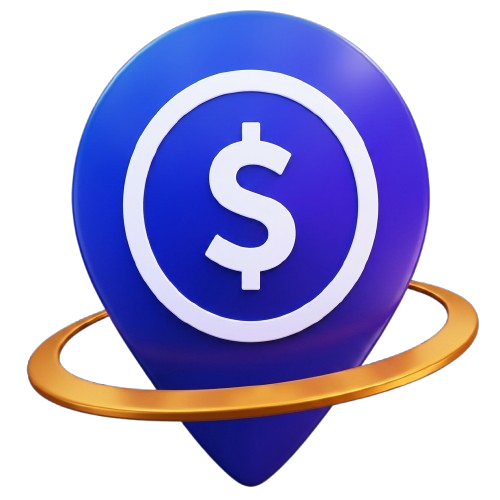
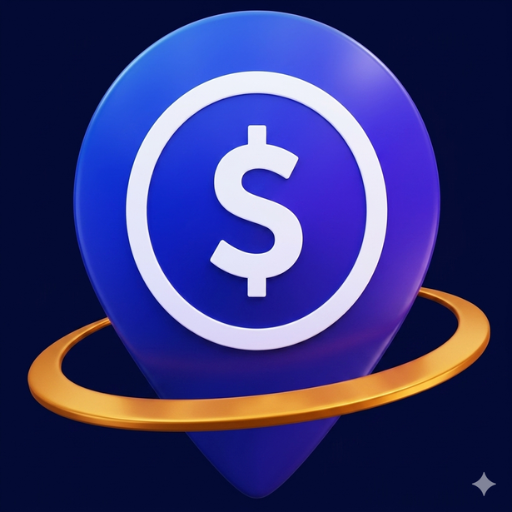
atualização dashboard

diff --git a/src/components/PWAInstallationsCard.tsx b/src/components/PWAInstallationsCard.tsx
@@ -1,0 +1,27 @@
+import React from 'react';
+import { Download } from 'lucide-react';
+import { usePWAInstallationsCount } from '../hooks/usePWAInstallationsCount';
+
+export function PWAInstallationsCard() {
+  const { data: installationsCount, isLoading, isError } = usePWAInstallationsCount();
+
+  return (
+    <div className="bg-white dark:bg-gray-800 shadow rounded-lg p-4 sm:p-6 xl:p-8">
+      <div className="flex items-center">
+        <div className="flex-shrink-0">
+          <Download className="h-6 w-6 text-gray-400" aria-hidden="true" />
+        </div>
+        <div className="ml-5 w-0 flex-1">
+          <dt className="text-sm font-medium text-gray-500 dark:text-gray-400 truncate">Instalações do App (PWA)</dt>
+          <dd className="flex items-baseline">
+            {isLoading && <p className="text-2xl font-semibold text-gray-900 dark:text-white italic text-sm">Carregando...</p>}
+            {isError && <p className="text-2xl font-semibold text-red-600 dark:text-red-400">Erro</p>}
+            {!isLoading && !isError && (
+              <p className="text-2xl font-semibold text-gray-900 dark:text-white">{installationsCount || 0}</p>
+            )}
+          </dd>
+        </div>
+      </div>
+    </div>
+  );
+}

diff --git a/src/hooks/usePWAInstallationsCount.ts b/src/hooks/usePWAInstallationsCount.ts
@@ -1,0 +1,22 @@
+import { useQuery } from '@tanstack/react-query';
+import { supabase } from "@/integrations/supabase/client";
+
+const fetchPWAInstallationsCount = async () => {
+  // @ts-ignore - ignorando erro de tipo caso a tabela ainda não tenha sido criada no Supabase
+  const { count, error } = await supabase
+    .from('app_installations')
+    .select('*', { count: 'exact', head: true });
+
+  if (error) {
+    throw new Error(error.message);
+  }
+  return count;
+};
+
+export function usePWAInstallationsCount() {
+  return useQuery({
+    queryKey: ['pwaInstallationsCount'],
+    queryFn: fetchPWAInstallationsCount,
+    staleTime: 1000 * 60 * 5, // 5 minutos de cache
+  });
+}

diff --git a/src/routes/index.tsx b/src/routes/index.tsx
@@ -1,7 +1,7 @@
 import { createFileRoute, Link } from "@tanstack/react-router";
 import { useQuery } from "@tanstack/react-query";
 import { supabase } from "@/integrations/supabase/client";
-import { MapPin, DollarSign, Wrench, Image as ImageIcon, UserCheck, User } from "lucide-react";
+import { MapPin, DollarSign, Wrench, Image as ImageIcon, UserCheck, User, Download } from "lucide-react";
 import { useEffect, useState } from "react";
 import {
   Dialog,
@@ -38,6 +38,8 @@ function AdminDashboard() {
   
   const freeUsers = useCount("profiles", { column: "is_premium", value: false });
   const paidUsers = useCount("profiles", { column: "is_premium", value: true });
+  // @ts-ignore - ignorando erro de tipo caso a tabela ainda não tenha sido criada no Supabase
+  const pwaInstalls = useCount("app_installations");
 
   useEffect(() => {
     const shouldShow = localStorage.getItem("showWelcomeDouglas");
@@ -57,6 +59,7 @@ function AdminDashboard() {
   const userCards = [
     { label: "Contas Grátis", count: freeUsers.data, icon: User, color: "bg-slate-600" },
     { label: "Assinantes", count: paidUsers.data, icon: UserCheck, color: "bg-yellow-500" },
+    { label: "Instalações PWA", count: pwaInstalls.data, icon: Download, color: "bg-indigo-500" },
   ];
 
   return (
@@ -79,8 +82,8 @@ function AdminDashboard() {
         })}
       </div>
 
-      <h2 className="text-lg font-semibold text-white mb-4">Métricas de Usuários</h2>
-      <div className="grid grid-cols-1 md:grid-cols-2 gap-4">
+      <h2 className="text-lg font-semibold text-white mb-4">Métricas de Usuários e App</h2>
+      <div className="grid grid-cols-1 md:grid-cols-3 gap-4">
         {userCards.map((c) => {
           const Icon = c.icon;
           return (

diff --git a/vite.config.ts b/vite.config.ts
@@ -12,8 +12,8 @@ export default defineConfig({
       registerType: 'autoUpdate',
       includeAssets: ['icon-152.png', 'icon-192.png', 'icon-512.png'],
       manifest: {
-        name: 'Painel Admin — Abastece Votu',
-        short_name: 'Abastece Admin',
+        name: 'Abastece ADM — Painel',
+        short_name: 'Abastece ADM',
         description: 'Gerenciador do ecossistema Abastece Votu',
         theme_color: '#0B0F19',
         background_color: '#0B0F19',

diff --git a/index.html b/index.html
@@ -11,7 +11,7 @@
   <link rel="apple-touch-icon" href="/icon-152.png" />
   
   <meta name="viewport" content="width=device-width, initial-scale=1.0" />
-  <title>Abastece Admin</title>
+  <title>Abastece ADM</title>
 </head>
   <body>
     <div id="root"></div>

diff --git a/src/components/Sidebar.tsx b/src/components/Sidebar.tsx
@@ -35,7 +35,7 @@ export function Sidebar({
       <div>
         <div className="mb-8 flex items-center justify-between">
           <div>
-            <h1 className="text-xl font-bold text-white">Abastece Votu</h1>
+            <h1 className="text-xl font-bold text-white">Abastece ADM</h1>
             <p className="text-[10px] text-blue-400 font-bold uppercase tracking-widest">Painel de Controle</p>
           </div>
           <button onClick={onClose} className="md:hidden text-gray-400 hover:text-white">

diff --git a/src/routes/__root.tsx b/src/routes/__root.tsx
@@ -72,7 +72,7 @@ function RootComponent() {
         >
           <Menu className="w-6 h-6" />
         </button>
-        <h1 className="text-xl font-bold ml-4">Abastece Votu</h1>
+        <h1 className="text-xl font-bold ml-4">Abastece ADM</h1>
       </div>
 
       <Sidebar 